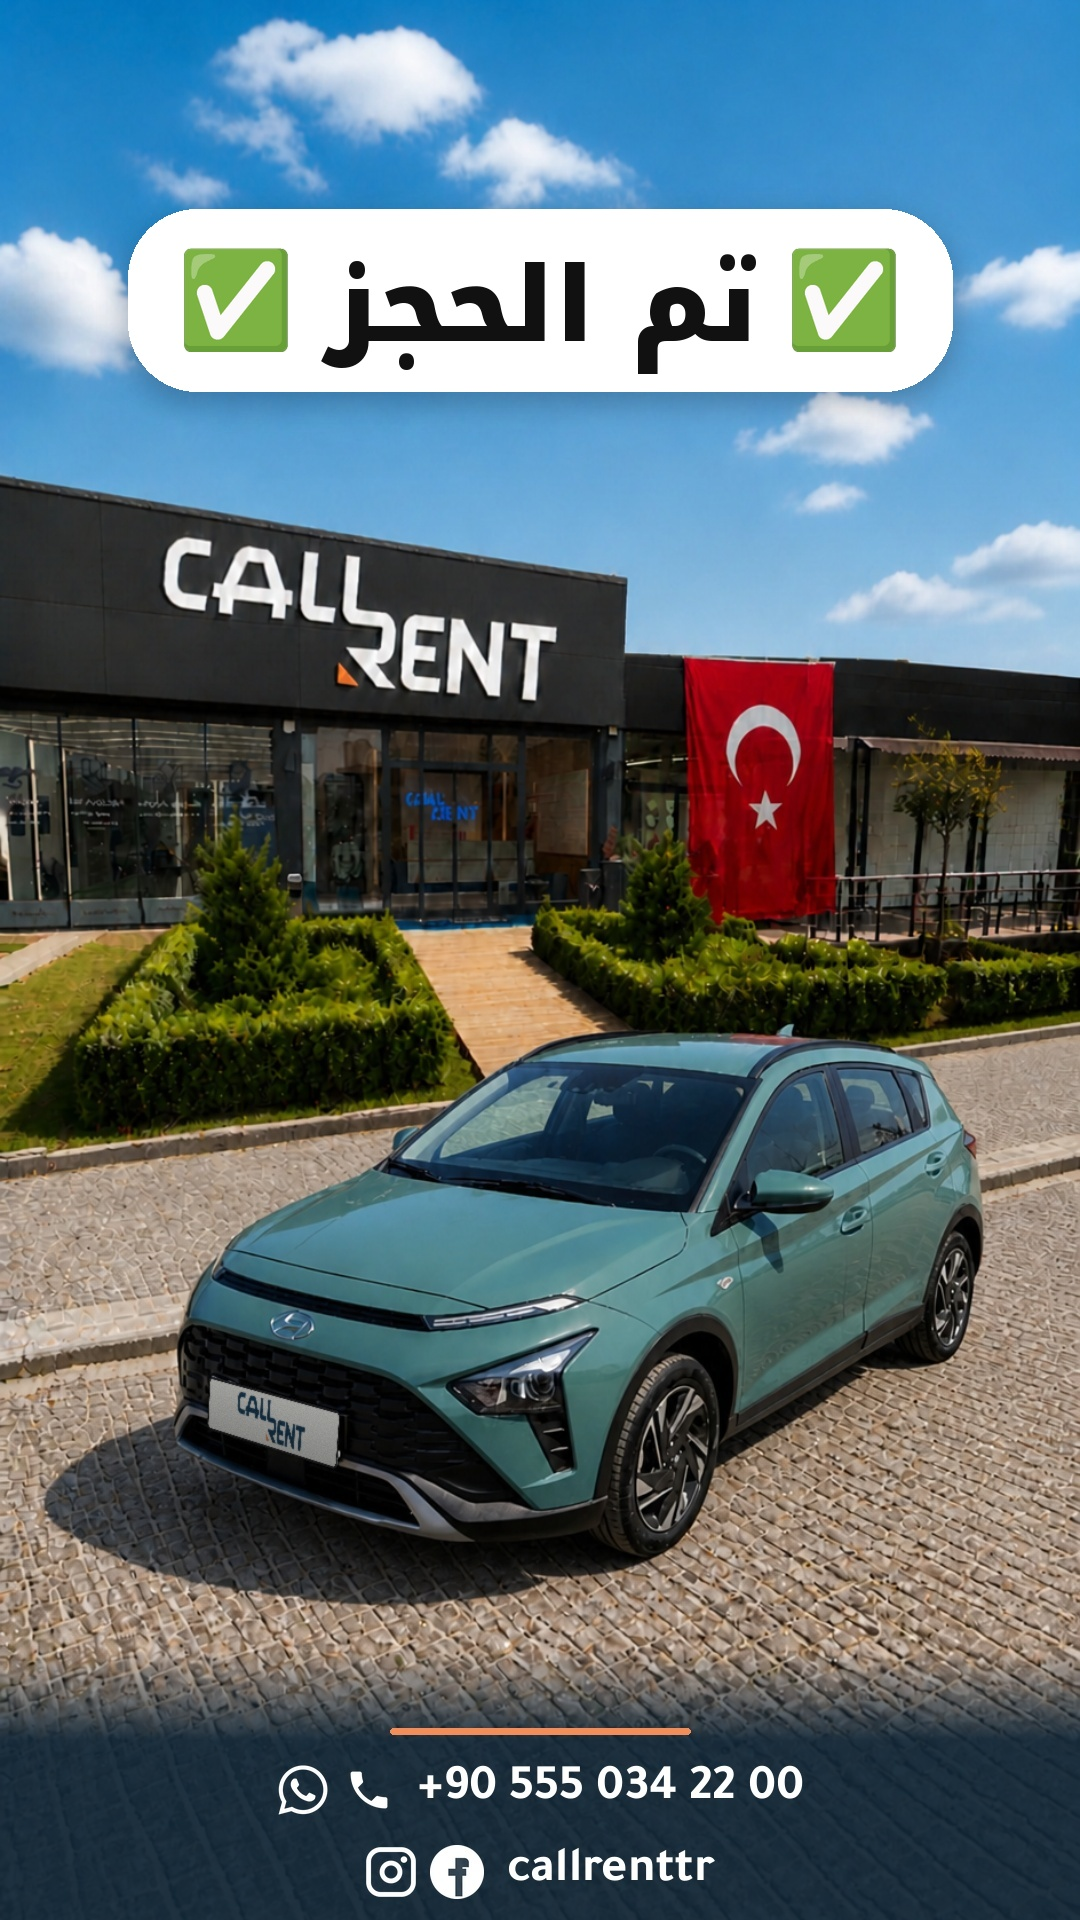
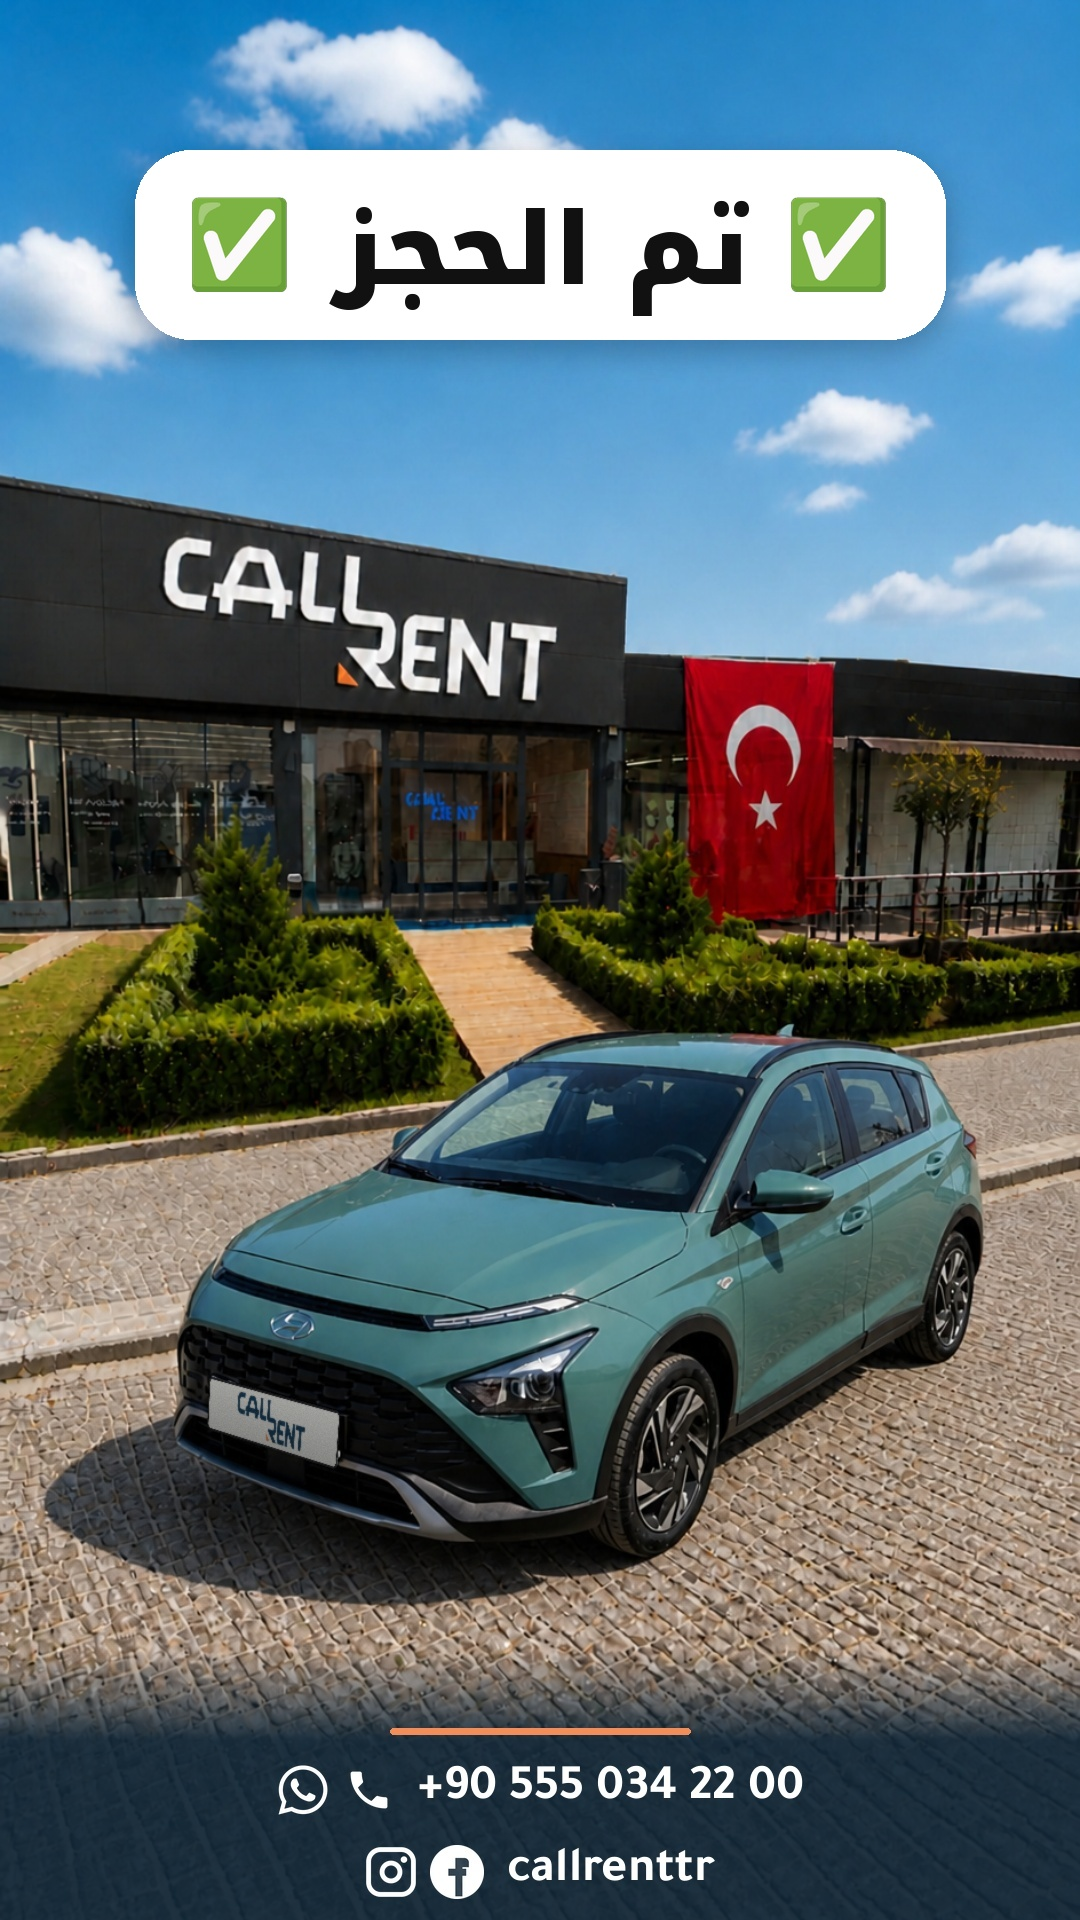
Fleet album: two-line price card (name + 7 days / $250) with emojis
Claude-Session: https://claude.ai/code/session_01M93EGBWm6Ydcsvbq5KGYrg

Changed region(s): [[0.1222, 0.0625, 0.8861, 0.2188]]

diff --git a/marketing/fleet/status.py b/marketing/fleet/status.py
@@ -1,44 +1,68 @@
-"""Status badge for fleet album images: a white pill in the sky, e.g. «✅ تم الحجز ✅».
-usage: python3 status.py <album.jpg> <out.jpg> "<text>" [emoji]"""
+"""Status / price card for fleet album images: a white rounded card in the sky.
+One or more lines; a line may have an emoji on both sides, e.g.
+    «✅ تم الحجز ✅»
+    «هونداي بايون 2023» + «🔥 7 أيام / $250 🔥»
+usage: python3 status.py <album.jpg> <out.jpg> "<line>[|emoji]" ["<line>[|emoji]" ...]"""
 import sys, os
-import numpy as np
-from PIL import Image, ImageDraw, ImageFilter
+from PIL import Image, ImageDraw, ImageFilter, ImageFont
 HERE = os.path.dirname(os.path.abspath(__file__)); sys.path.insert(0, os.path.join(HERE, '..', 'brand-kit'))
 import brand as B
 
 EMOJI_FONT = '/usr/share/fonts/truetype/noto/NotoColorEmoji.ttf'
+INK = (17, 17, 17)
 
 def emoji(ch, size):
-    from PIL import ImageFont
     f = ImageFont.truetype(EMOJI_FONT, 109)                     # colour emoji only render at 109
     im = Image.new('RGBA', (160, 160), (0, 0, 0, 0))
     ImageDraw.Draw(im).text((80, 80), ch, font=f, embedded_color=True, anchor='mm')
     im = im.crop(im.getbbox())
     return im.resize((size, int(size * im.height / im.width)), Image.LANCZOS)
 
-def badge(fr, text, ch='✅', cy=300, fsize=104, esize=104, color=(17, 17, 17)):
+def card(fr, lines, top=150, fsize=None, gap=42, padx=60, pady=44, lead=1.42):
+    """lines: [(text, emoji_or_None), ...]; centred horizontally, top edge at `top`"""
     W = fr.width
+    fsize = fsize or (100 if len(lines) == 1 else 84)
     font = B.F(B.AR_BLACK, fsize)
     d = ImageDraw.Draw(fr)
-    tb = d.textbbox((0, 0), text, font=font, anchor='lm', direction='rtl', language='ar')
-    tw = tb[2] - tb[0]
-    e = emoji(ch, esize); gap = 34; padx = 56
-    pw = tw + 2 * (e.width + gap) + 2 * padx; ph = int(max(esize, fsize) * 1.75)
-    x0 = (W - pw) // 2; y0 = cy - ph // 2
-    # soft drop shadow so the pill lifts off the sky
-    sh = Image.new('RGBA', fr.size, (0, 0, 0, 0))
-    ImageDraw.Draw(sh).rounded_rectangle((x0, y0 + 10, x0 + pw, y0 + ph + 10), radius=ph // 2.6, fill=(10, 30, 60, 70))
+    rows = []
+    for text, ch in lines:
+        text = ltr_runs(text)
+        tw = d.textlength(text, font=font, direction='rtl', language='ar')
+        e = emoji(ch, int(fsize * 0.95)) if ch else None
+        rows.append((text, e, tw + (2 * (e.width + gap) if e else 0)))
+    lh = int(fsize * lead)
+    pw = max(r[2] for r in rows) + 2 * padx
+    ph = lh * len(rows) + 2 * pady - int(fsize * (lead - 1.0))
+    x0 = (W - pw) // 2; y0 = top; rad = min(56, ph // 3)
+    sh = Image.new('RGBA', fr.size, (0, 0, 0, 0))               # soft drop shadow lifts it off the sky
+    ImageDraw.Draw(sh).rounded_rectangle((x0, y0 + 10, x0 + pw, y0 + ph + 10), radius=rad, fill=(10, 30, 60, 70))
     fr.alpha_composite(sh.filter(ImageFilter.GaussianBlur(14)))
     d = ImageDraw.Draw(fr)
-    d.rounded_rectangle((x0, y0, x0 + pw, y0 + ph), radius=ph // 2.6, fill=(255, 255, 255, 255))
-    ey = cy - e.height // 2
-    fr.alpha_composite(e, (x0 + padx, ey))
-    fr.alpha_composite(e, (x0 + pw - padx - e.width, ey))
-    d.text((W / 2, cy + fsize * 0.06), text, font=font, fill=color, anchor='mm', direction='rtl', language='ar')
+    d.rounded_rectangle((x0, y0, x0 + pw, y0 + ph), radius=rad, fill=(255, 255, 255, 255))
+    for i, (text, e, w) in enumerate(rows):
+        cy = y0 + pady + fsize // 2 + i * lh
+        pos = (W / 2, cy + fsize * 0.06)
+        d.text(pos, text, font=font, fill=INK, anchor='mm', direction='rtl', language='ar')
+        if e:                                   # emojis sit a fixed gap outside the real ink edges
+            ink = Image.new('L', fr.size, 0)
+            ImageDraw.Draw(ink).text(pos, text, font=font, fill=255, anchor='mm', direction='rtl', language='ar')
+            l, _, r, _ = ink.getbbox()
+            ey = cy - e.height // 2
+            fr.alpha_composite(e, (int(l - gap - e.width), ey))
+            fr.alpha_composite(e, (int(r + gap), ey))
     return fr
 
+def ltr_runs(text):
+    """keep prices like $250 in reading order inside Arabic text (wrap them in LTR isolates)"""
+    import re
+    return re.sub(r'([$€₺]?\d[\d.,]*[$€₺]?)', '\u2066\\1\u2069', text)
+
+def badge(fr, text, ch='✅', **kw):
+    return card(fr, [(text, ch)], **kw)
+
 if __name__ == '__main__':
-    src, out, text = sys.argv[1:4]; ch = sys.argv[4] if len(sys.argv) > 4 else '✅'
+    src, out = sys.argv[1:3]
+    lines = [(a.split('|')[0], a.split('|')[1] if '|' in a else None) for a in sys.argv[3:]]
     fr = Image.open(src).convert('RGBA')
-    badge(fr, text, ch).convert('RGB').save(out, quality=95)
+    card(fr, lines).convert('RGB').save(out, quality=95)
     print(out)
